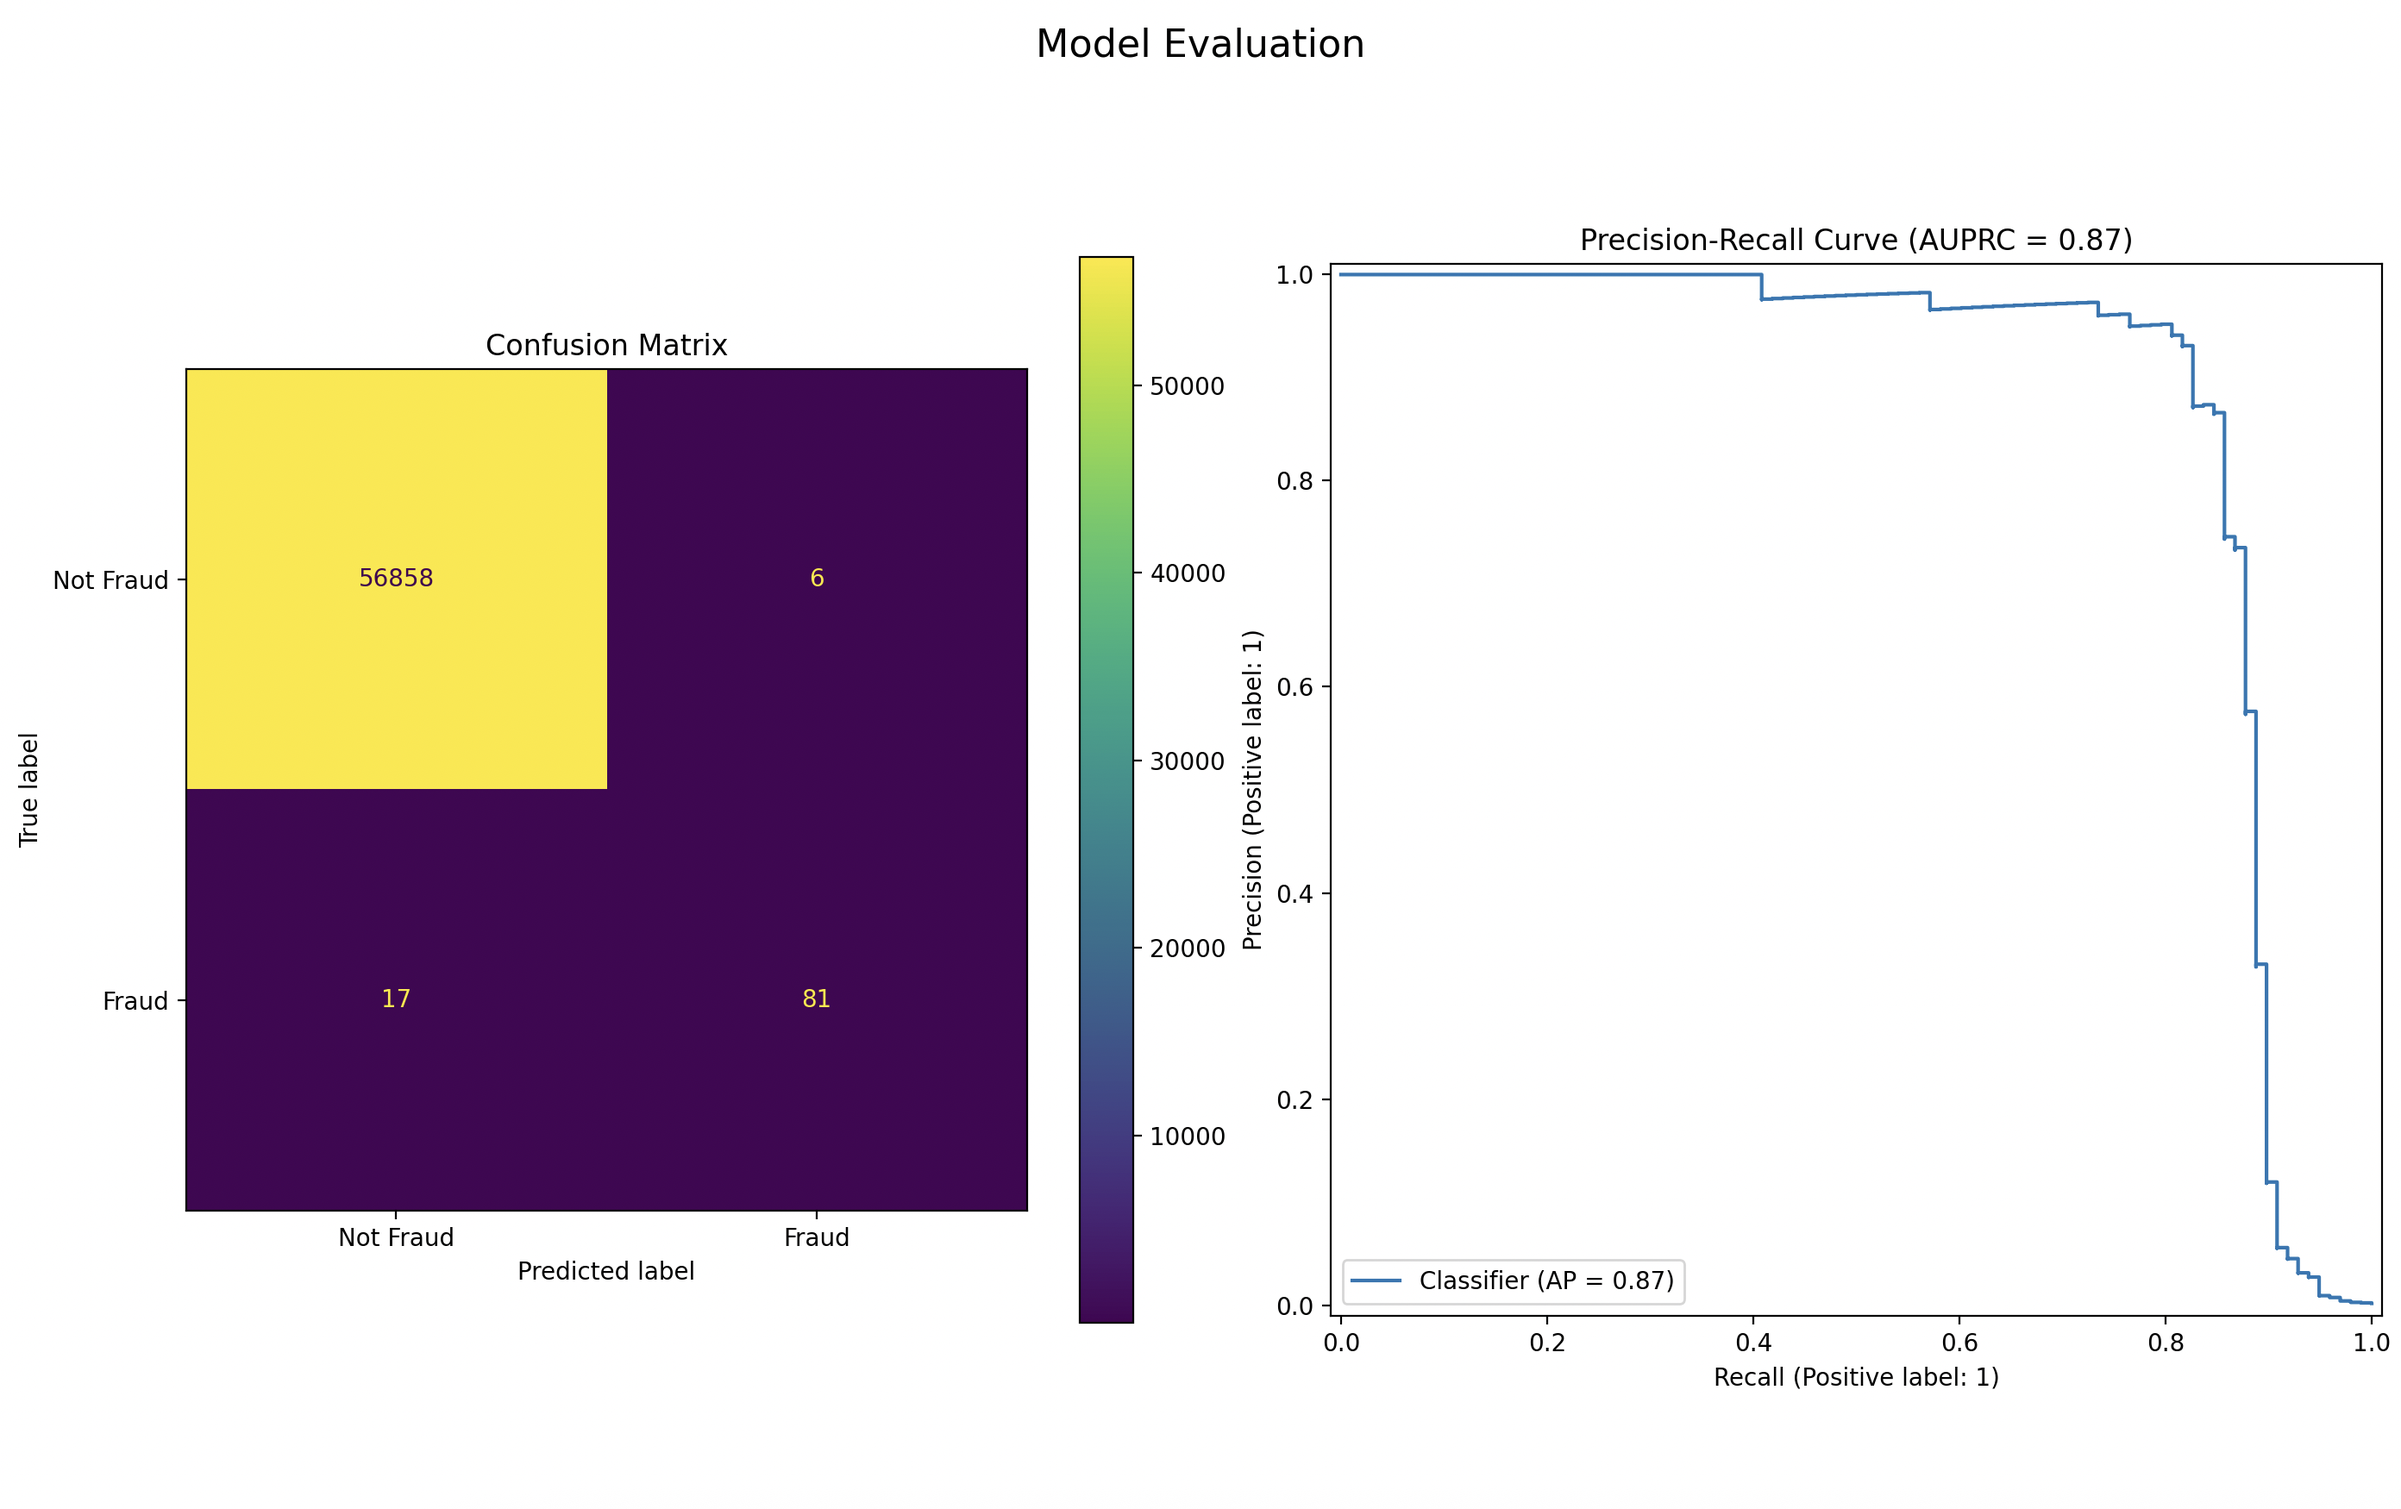
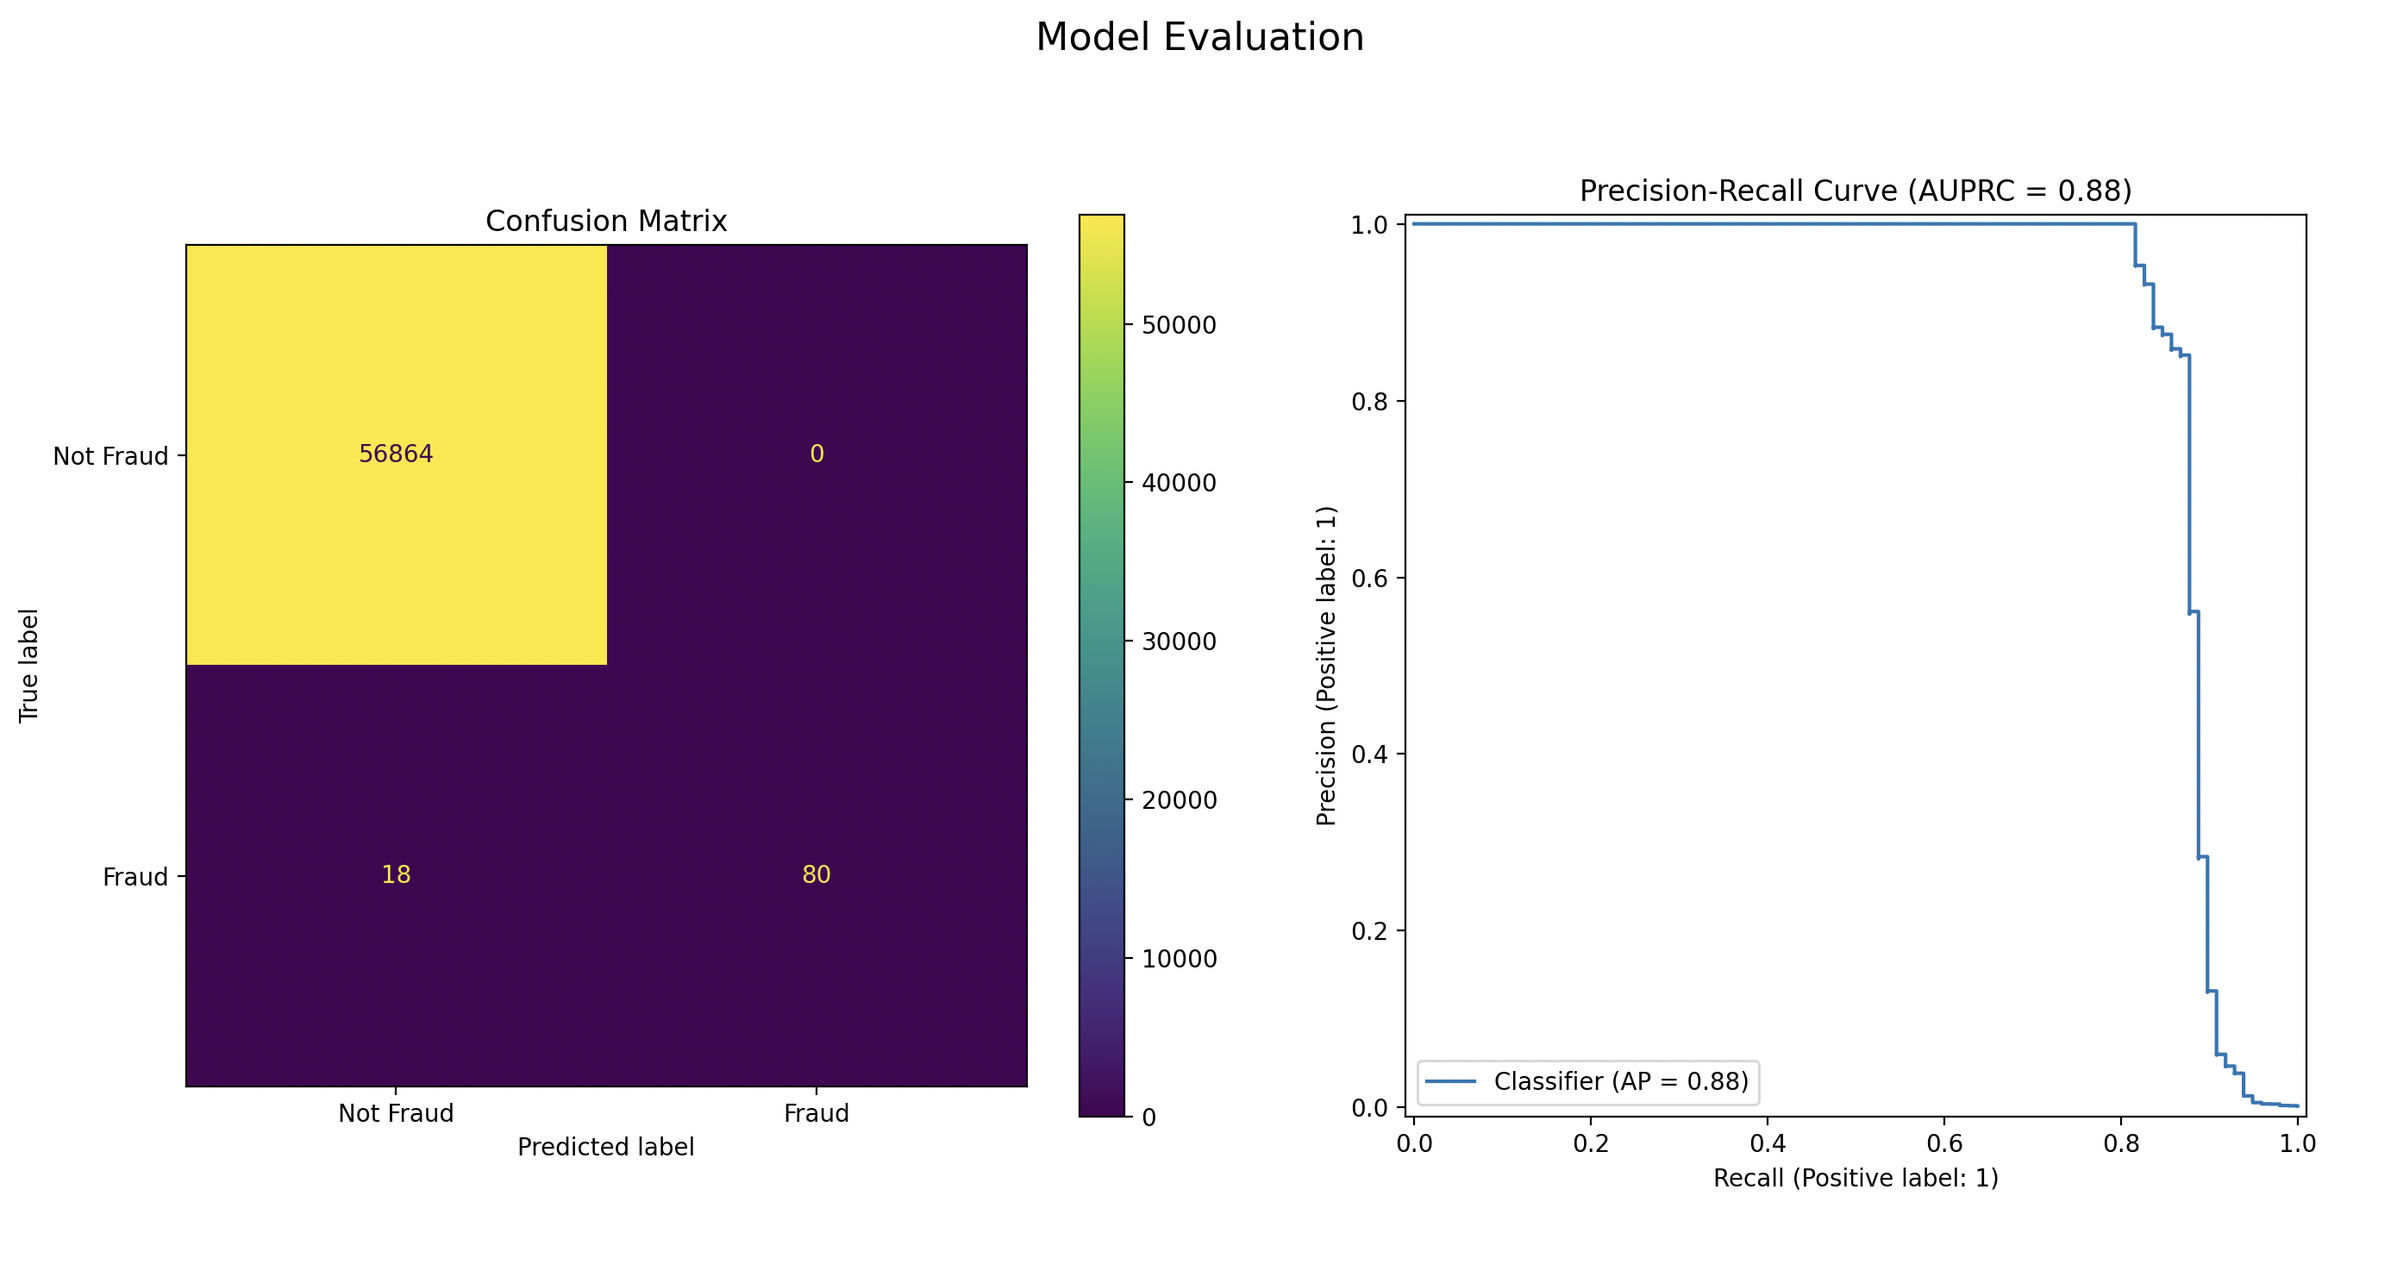
updated README and tweaked preprocessing

diff --git a/src/preprocess.py b/src/preprocess.py
@@ -1,8 +1,6 @@
 import pandas as pd
 import numpy as np
-from sklearn.model_selection import train_test_split
-from sklearn.preprocessing import StandardScaler
-# imblearn is no longer needed in this file
+from sklearn.preprocessing import RobustScaler
 
 def engineer_features(df: pd.DataFrame) -> pd.DataFrame:
     """Creates new features from existing ones."""
@@ -15,8 +13,8 @@ def engineer_features(df: pd.DataFrame) -> pd.DataFrame:
 
 def load_and_preprocess_data(file_path: str):
     """
-    Loads, engineers, scales, and splits the data.
-    Does NOT perform any sampling.
+    Loads, engineers, and scales the full dataset.
+    Returns: The full X, y, and the fitted scaler.
     """
     df = pd.read_csv(file_path)
     df = engineer_features(df)
@@ -24,16 +22,11 @@ def load_and_preprocess_data(file_path: str):
     X = df.drop('Class', axis=1)
     y = df['Class']
     
-    scaler = StandardScaler()
+    scaler = RobustScaler()
     X_scaled = scaler.fit_transform(X)
     X = pd.DataFrame(X_scaled, columns=X.columns)
-
-    # Split and return the original, imbalanced data
-    X_train, X_test, y_train, y_test = train_test_split(
-        X, y, test_size=0.2, random_state=42, stratify=y
-    )
     
-    return X_train, X_test, y_train, y_test
+    return X, y, scaler
 
 # def load_and_preprocess_data(file_path: str):
 #     """

diff --git a/src/train.py b/src/train.py
@@ -56,11 +56,12 @@ def train_model(X_train, y_train):
     rand_search = RandomizedSearchCV(
         model,  # type:ignore
         param_distributions=param_dist,
-        n_iter=100,  # Increased from 10 to 50 for a more thorough search
-        cv=3,
+        n_iter=50,  # Increased from 10 to 50 for a more thorough search
+        cv=5,
         scoring='average_precision',
         random_state=42,
         n_jobs=-1,
+        refit=True,
         return_train_score=True
     )
     

diff --git a/README.md b/README.md
@@ -15,12 +15,12 @@ Detecting fraudulent transactions in real-world banking data is a vital, high-im
 
 ## Results
 
-- **Fraud Precision**: `0.94`
-- **Fraud Recall**: `0.83`
-- **AUPRC**: `0.87`
+- **Fraud Precision**: `1.00`
+- **Fraud Recall**: `0.82`
+- **AUPRC**: `0.8556`
 ![Model Evaluation](public/model_eval.png)
 
-These metrics reflect a model that flags fraudulent activity accurately and with minimal false positives—a critical requirement for real-world fraud detection systems.
+Our best LightGBM model achieves perfect precision (1.00) for fraud detection and a recall of 0.82, with an AUPRC of 0.8556 which is generally considered exceptional for such an imbalanced domain. This means the model reliably catches fraudulent transactions with virtually zero false alarms.
 
 
 
